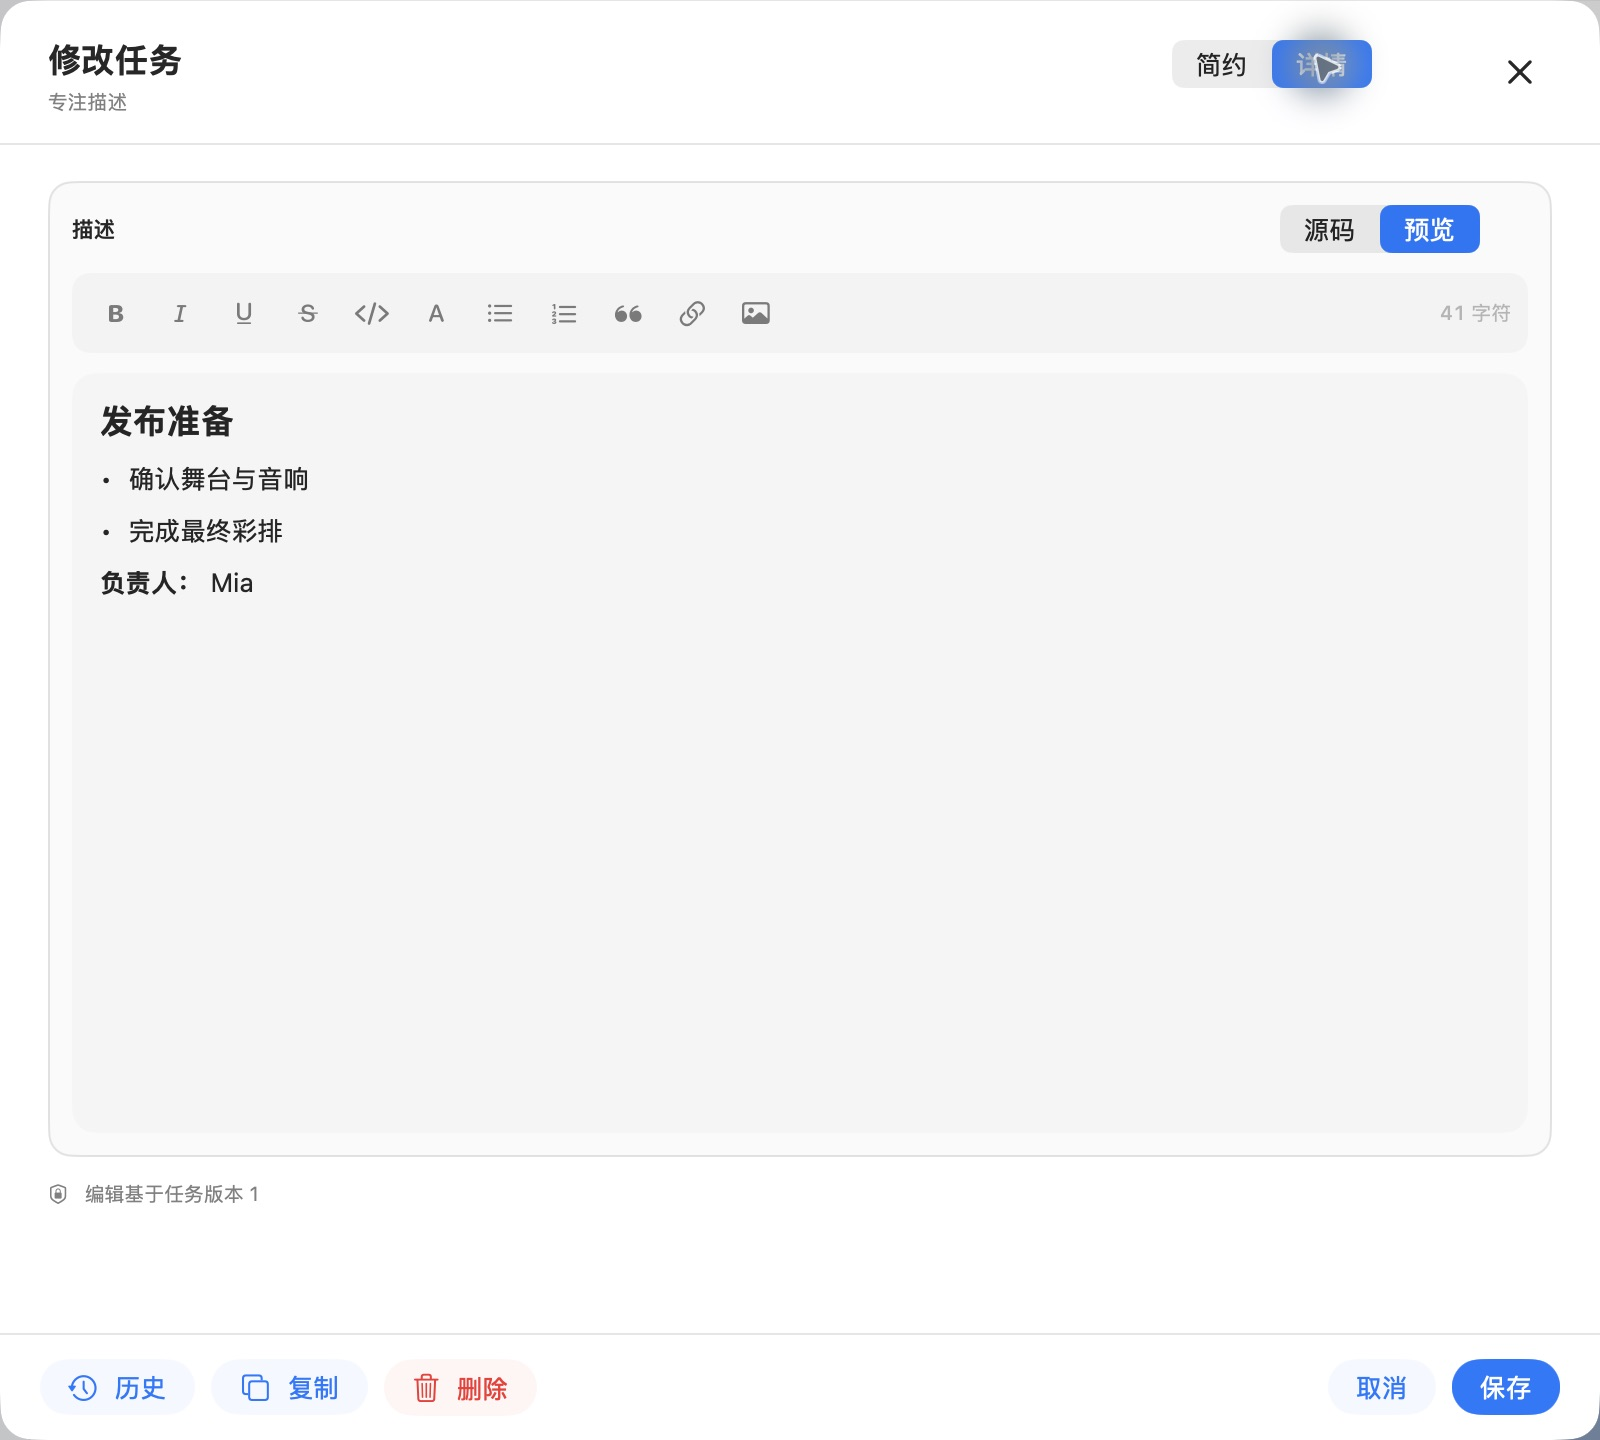
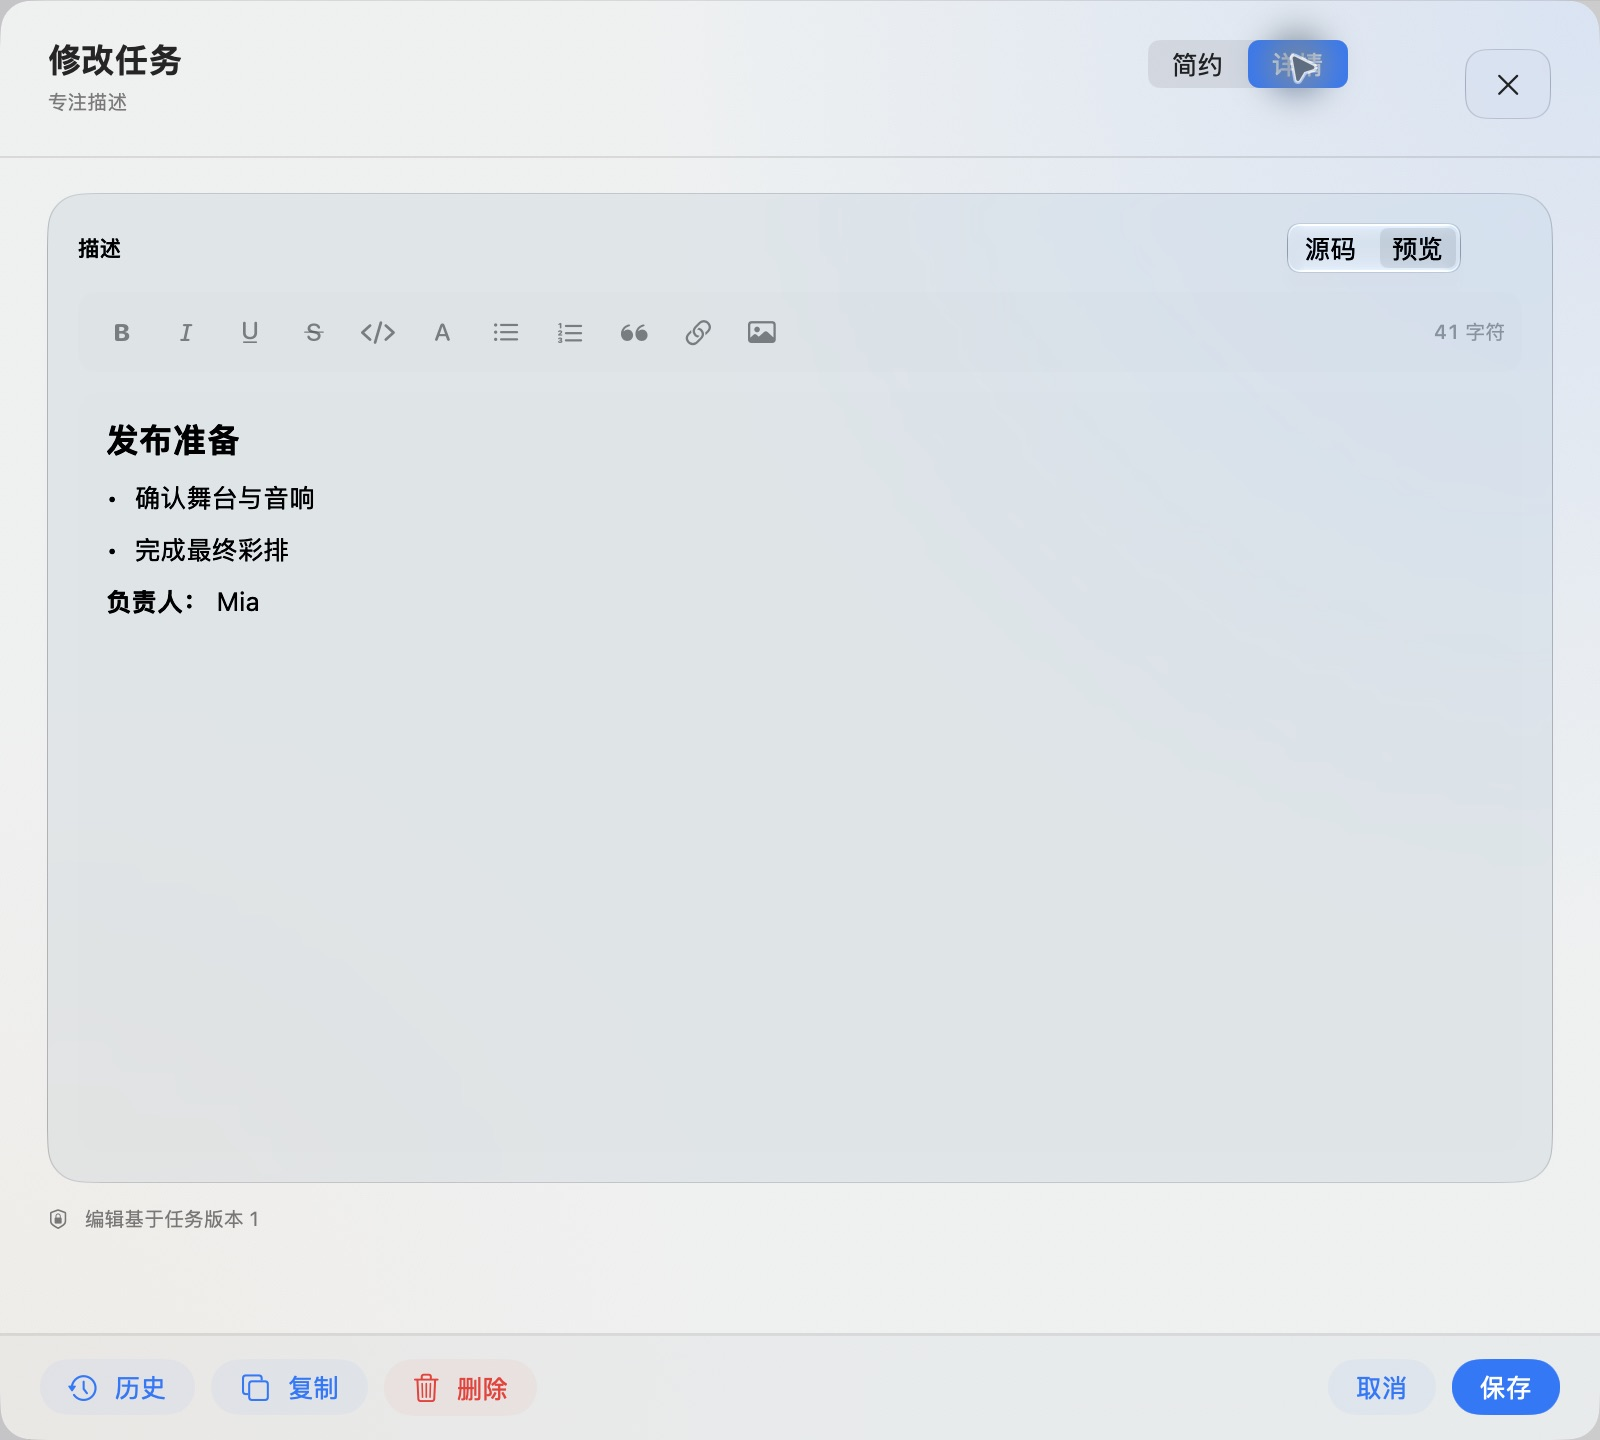
Polish task panel with liquid glass

Changed region(s): [[0.0312, 0.0, 1.0, 0.875], [0.0, 0.9062, 0.25, 1.0], [0.9688, 0.9688, 1.0, 1.0]]

diff --git a/Sources/KshiftUI/TaskEditorView.swift b/Sources/KshiftUI/TaskEditorView.swift
@@ -31,6 +31,8 @@ struct TaskEditorView: View {
     @ObservedObject var model: AppModel
     @Environment(\.dismiss) private var dismiss
     @Environment(\.horizontalSizeClass) private var horizontalSizeClass
+    @Environment(\.accessibilityReduceTransparency) private var reduceTransparency
+    @Environment(\.accessibilityReduceMotion) private var reduceMotion
     @State private var draft: TaskDraft
     @State private var markdownMode: MarkdownViewMode
     @State private var tagInput = ""
@@ -350,7 +352,18 @@ struct TaskEditorView: View {
 
             Spacer(minLength: 20)
 
-            Picker("编辑模式", selection: $layoutMode) {
+            Picker("编辑模式", selection: Binding(
+                get: { layoutMode },
+                set: { nextMode in
+                    if reduceMotion {
+                        layoutMode = nextMode
+                    } else {
+                        withAnimation(.snappy(duration: 0.24)) {
+                            layoutMode = nextMode
+                        }
+                    }
+                }
+            )) {
                 ForEach(TaskEditorLayoutMode.allCases) { mode in
                     Text(mode.title).tag(mode)
                 }
@@ -365,10 +378,9 @@ struct TaskEditorView: View {
                 dismiss()
             } label: {
                 Image(systemName: "xmark")
-                    .font(.title3.weight(.medium))
-                    .frame(width: 32, height: 32)
+                    .frame(width: 30, height: 30)
             }
-            .buttonStyle(.plain)
+            .buttonStyle(KshiftCompactGlassButtonStyle())
             .accessibilityLabel("关闭")
             .accessibilityIdentifier("close-task-editor")
         }
@@ -379,11 +391,13 @@ struct TaskEditorView: View {
 
     private var compactSheetContent: some View {
         ScrollView {
-            compactSheetFields
-                .frame(maxWidth: 760, alignment: .leading)
-                .frame(maxWidth: .infinity, alignment: .center)
-                .padding(.horizontal, 24)
-                .padding(.vertical, 18)
+            GlassEffectContainer(spacing: 14) {
+                compactSheetFields
+                    .frame(maxWidth: 760, alignment: .leading)
+                    .frame(maxWidth: .infinity, alignment: .center)
+                    .padding(.horizontal, 24)
+                    .padding(.vertical, 18)
+            }
         }
     }
 
@@ -392,6 +406,8 @@ struct TaskEditorView: View {
             fieldGroup("任务名称") {
                 titleField
             }
+            .padding(14)
+            .kshiftGlassCard(tint: Color.accentColor.opacity(0.022))
 
             descriptionWorkspace(paneHeight: markdownPaneHeight)
 
@@ -401,12 +417,18 @@ struct TaskEditorView: View {
                 statusStrip
                     .frame(maxWidth: .infinity, alignment: .leading)
             }
+            .padding(14)
+            .kshiftGlassCard()
 
             compactMetadataFields
+                .padding(14)
+                .kshiftGlassCard(tint: Color.blue.opacity(0.015))
 
             fieldGroup("标签") {
                 TaskTagEditor(tags: $draft.tags, input: $tagInput)
             }
+            .padding(14)
+            .kshiftGlassCard(tint: Color.orange.opacity(0.015))
 
             editorStatusMessages
 
@@ -418,6 +440,8 @@ struct TaskEditorView: View {
                         .lineLimit(2)
                         .accessibilityIdentifier("task-detail-history-summary")
                 }
+                .padding(14)
+                .kshiftGlassCard()
             }
         }
     }
@@ -451,15 +475,7 @@ struct TaskEditorView: View {
             )
         }
         .padding(12)
-        .background(
-            .primary.opacity(0.025),
-            in: RoundedRectangle(cornerRadius: 12, style: .continuous)
-        )
-        .overlay {
-            RoundedRectangle(cornerRadius: 12, style: .continuous)
-                .strokeBorder(.separator, lineWidth: 1)
-                .allowsHitTesting(false)
-        }
+        .kshiftGlassCard(tint: Color.accentColor.opacity(0.025))
     }
 
     private var priorityStrip: some View {
@@ -578,14 +594,16 @@ struct TaskEditorView: View {
     }
 
     private var detailSheetContent: some View {
-        VStack(alignment: .leading, spacing: 12) {
-            descriptionWorkspace(paneHeight: isCompactWidth ? 340 : 380)
-            editorStatusMessages
-            Spacer(minLength: 0)
+        GlassEffectContainer(spacing: 14) {
+            VStack(alignment: .leading, spacing: 12) {
+                descriptionWorkspace(paneHeight: isCompactWidth ? 340 : 380)
+                editorStatusMessages
+                Spacer(minLength: 0)
+            }
+            .padding(.horizontal, 24)
+            .padding(.vertical, 18)
+            .frame(maxWidth: .infinity, maxHeight: .infinity, alignment: .topLeading)
         }
-        .padding(.horizontal, 24)
-        .padding(.vertical, 18)
-        .frame(maxWidth: .infinity, maxHeight: .infinity, alignment: .topLeading)
     }
 
     @ViewBuilder
@@ -669,7 +687,12 @@ struct TaskEditorView: View {
         .controlSize(.large)
         .padding(.horizontal, 20)
         .padding(.vertical, 12)
-        .background(.bar)
+        .background(.ultraThinMaterial)
+        .overlay(alignment: .top) {
+            Rectangle()
+                .fill(.separator.opacity(0.7))
+                .frame(height: 0.5)
+        }
     }
 
     private var taskHistoryPopover: some View {
@@ -829,6 +852,7 @@ struct TaskEditorView: View {
                     detailSheetContent
                 }
             }
+            .animation(reduceMotion ? nil : .snappy(duration: 0.24), value: layoutMode)
 
             Divider()
             sheetFooter
@@ -837,11 +861,42 @@ struct TaskEditorView: View {
             width: isCompactWidth ? nil : 800,
             height: isCompactWidth ? nil : 720
         )
-        .background(.background)
+        .background {
+            sheetBackdrop
+        }
+        .presentationBackground(.clear)
         .interactiveDismissDisabled(isSaving)
         .popover(isPresented: $isShowingHistory, arrowEdge: .bottom) {
             taskHistoryPopover
         }
+    }
+
+    @ViewBuilder
+    private var sheetBackdrop: some View {
+        ZStack {
+            if reduceTransparency {
+                Rectangle()
+                    .fill(.background)
+            } else {
+                Rectangle()
+                    .fill(.ultraThinMaterial)
+
+                RadialGradient(
+                    colors: [Color.accentColor.opacity(0.11), .clear],
+                    center: .topTrailing,
+                    startRadius: 20,
+                    endRadius: 480
+                )
+
+                RadialGradient(
+                    colors: [Color.orange.opacity(0.05), .clear],
+                    center: .bottomLeading,
+                    startRadius: 20,
+                    endRadius: 420
+                )
+            }
+        }
+        .ignoresSafeArea()
     }
 
     private var popoverBody: some View {

diff --git a/docs/evidence/people-schedule/glass-task-bar/README.md b/docs/evidence/people-schedule/glass-task-bar/README.md
@@ -68,6 +68,8 @@ description: 记录人员排期任务条使用原生染色 Liquid Glass、明亮
 - Hover preview contains task metadata and rendered Markdown details。
 - Task details and task editor use one editable `800pt × 720pt` panel。
 - Panel header contains `修改任务` or `新建任务`, mode subtitle, `简约` / `详情` control and close button。
+- Panel backdrop uses translucent material with restrained accent context。
+- Core fields use grouped native Liquid Glass surfaces inside `GlassEffectContainer`。Individual fields use flat fills。
 - `简约` mode contains task name, Markdown workspace, priority/status strips, assignee/date/duration fields and tags。
 - `详情` mode uses a large focused Markdown workspace。
 - Markdown toolbar provides bold, italic, underline, strike, inline code, heading, lists, quote, link and image insert actions。
@@ -82,7 +84,7 @@ description: 记录人员排期任务条使用原生染色 Liquid Glass、明亮
 
 ## 视觉证据
 
-截图使用固定日期 `2026-11-15` 和 Demo 数据。截图显示 P0、P1、P2 任务条在 Light Mode 和 Dark Mode 中保留优先级颜色、玻璃高光和单行紧凑布局。任务条保留统一的日期间距，不贴边绘制；单日标题完整显示或被 tail truncation 裁切；状态符号使用白芯高对比徽章，完成状态为绿色。In-content toolbar buttons 使用紧凑 neutral glass。Window toolbar 使用一个 native Liquid Glass group；filter、refresh 和 audit 为 flat borderless icons；New Task 为 accent-blue plus。The schedule utility group shows sort、filter 和 settings。The filter action opens `FilterPopover`。The sort menu shows all four options directly at the first level and marks the current option。Regular PeopleSchedule uses one date and period navigation row。The sidebar gear button opens the application settings surface。PeopleSchedule no longer exposes the legacy Plan Depth entry。Task bars show rendered Markdown hover previews。Shift + wheel moved the month timeline horizontally。Blank day cell click opened and saved a responsive task popover。All New Task actions now use anchored popovers。The task detail panel uses `简约` and `详情` modes, a fixed footer, editable Markdown and aligned priority/status strips。The person-header evidence uses the `168pt` minimum width and shows separate role and metric bounds without overlap。
+截图使用固定日期 `2026-11-15` 和 Demo 数据。截图显示 P0、P1、P2 任务条在 Light Mode 和 Dark Mode 中保留优先级颜色、玻璃高光和单行紧凑布局。任务条保留统一的日期间距，不贴边绘制；单日标题完整显示或被 tail truncation 裁切；状态符号使用白芯高对比徽章，完成状态为绿色。In-content toolbar buttons 使用紧凑 neutral glass。Window toolbar 使用一个 native Liquid Glass group；filter、refresh 和 audit 为 flat borderless icons；New Task 为 accent-blue plus。The schedule utility group shows sort、filter 和 settings。The filter action opens `FilterPopover`。The sort menu shows all four options directly at the first level and marks the current option。Regular PeopleSchedule uses one date and period navigation row。The sidebar gear button opens the application settings surface。PeopleSchedule no longer exposes the legacy Plan Depth entry。Task bars show rendered Markdown hover previews。Shift + wheel moved the month timeline horizontally。Blank day cell click opened and saved a responsive task popover。All New Task actions now use anchored popovers。The task detail panel uses a translucent Liquid Glass backdrop, grouped native glass surfaces, `简约` and `详情` modes, a fixed translucent footer, editable Markdown and aligned priority/status strips。Accent color is limited to selected controls, Save and low-opacity context。The person-header evidence uses the `168pt` minimum width and shows separate role and metric bounds without overlap。
 
 | 文件 | 环境 | 内容 | SHA-256 |
 | --- | --- | --- | --- |
@@ -100,8 +102,8 @@ description: 记录人员排期任务条使用原生染色 Liquid Glass、明亮
[7 lines of base64/hex data omitted]
 
 旧文件 `macos-task-bar-2026-11-14.png` 和 `ios-task-bar-2026-11-14.png` 是上一版 `.buttonStyle(.glass)` 候选。`macos-task-detail-2026-11-15.png` 是 flat card candidate。它们不表示最终视觉结论。
 

diff --git a/docs/specs/ui.md b/docs/specs/ui.md
@@ -156,11 +156,12 @@ flowchart TB
 - `UI-PPL-025`：Regular task detail 和 task editor sheet 必须为 `800pt × 720pt`。Header 必须显示 `修改任务` 或 `新建任务`、mode subtitle、`简约` / `详情` segmented control 和 close button。`简约` mode 必须显示 task name、Markdown workspace、equal-width priority/status strips、assignee/start/due/duration fields and tag editor。`详情` mode 必须聚焦 Markdown workspace。Schedule task editor popover width 保持 `560pt`。
 - `UI-PPL-026`：Toolbar、planner floating action、board column action、calendar action and macOS menu 的 new-task action 必须打开 `TaskEditorView` popover。禁止 new-task action 使用 sheet。Popover 必须 anchor 到 initiating control；menu shortcut 可以 anchor 到 toolbar New Task button。Existing-task editing 可以继续使用 sheet。
 - `UI-PPL-027`：Sidebar 的 project selection 和 planning-view selection 必须使用 typed selection。Click planning-view row 不得写入 `selectedProjectID`。`selectProject` 必须 reject identifiers that are absent from the loaded project list。
-- `UI-PPL-028`：Task detail panel 必须使用 single continuous system sheet surface，不得拆成 stacked glass cards。Interactive buttons 可以使用 native Liquid Glass，但 panel content 不得叠加 multiple glass surfaces。Footer 必须固定在 panel bottom。
+- `UI-PPL-028`：Task detail panel 必须使用 single translucent material backdrop 和 group-level native Liquid Glass surfaces。Task-name、description、priority/status、schedule metadata and tags must group into a small number of `GlassEffectContainer` surfaces。Controls inside these surfaces must use flat fills。禁止为每个 field 单独叠加 glass effect。Footer 必须固定在 panel bottom 并使用 translucent material。
 - `UI-PPL-029`：PeopleSchedule person header 不得使用 overlay 绘制 task metrics。Name 与 disclosure 必须位于首行；role 与 metrics 必须位于次行。Name 和 role 必须在 metrics 之前 tail truncate。Expanded header 必须显示 task count；in-progress 和 P0 metrics 只在 count 大于 0 时显示。Header 在 `168pt` 最小人员列宽下不得发生 text 与 metric overlap。
 - `UI-PPL-030`：macOS Window toolbar 的 primary actions 不得添加局部 `.glassEffect`。系统 toolbar group 必须提供唯一 Liquid Glass surface。Filter、refresh 和 audit 必须使用原生 borderless toolbar buttons。New Task 必须使用 accent tint 和原生 button interaction。禁止 double glass、double border 和 custom 44pt toolbar hit frame。
 - `UI-PPL-031`：Schedule sort menu 不得使用 nested `Picker` submenu。`手动顺序`、`优先级`、`标题` 和 `最近更新` 必须直接显示在 first-level menu。Current option 必须显示 native checkmark。Option selection 必须立即 update `sortOption`，不得保留 redundant `排序` parent item。
 - `UI-PPL-032`：Existing task detail footer 必须显示 `历史`、`复制`、`删除`、`取消` 和 `保存`。History button 必须打开 task-history popover。Copy 必须 create a duplicated task through `saveTask`。Delete 必须 use the shared project deletion confirmation。Save 必须 preserve expected task version。
+- `UI-PPL-033`：Task detail mode switching must use a short snappy transition，and must respect Reduce Motion。The close action must use native compact glass interaction。Accent tint must be restrained to selected controls, primary Save action and low-opacity ambient context。
 
 ## 8. 关联合同
 
